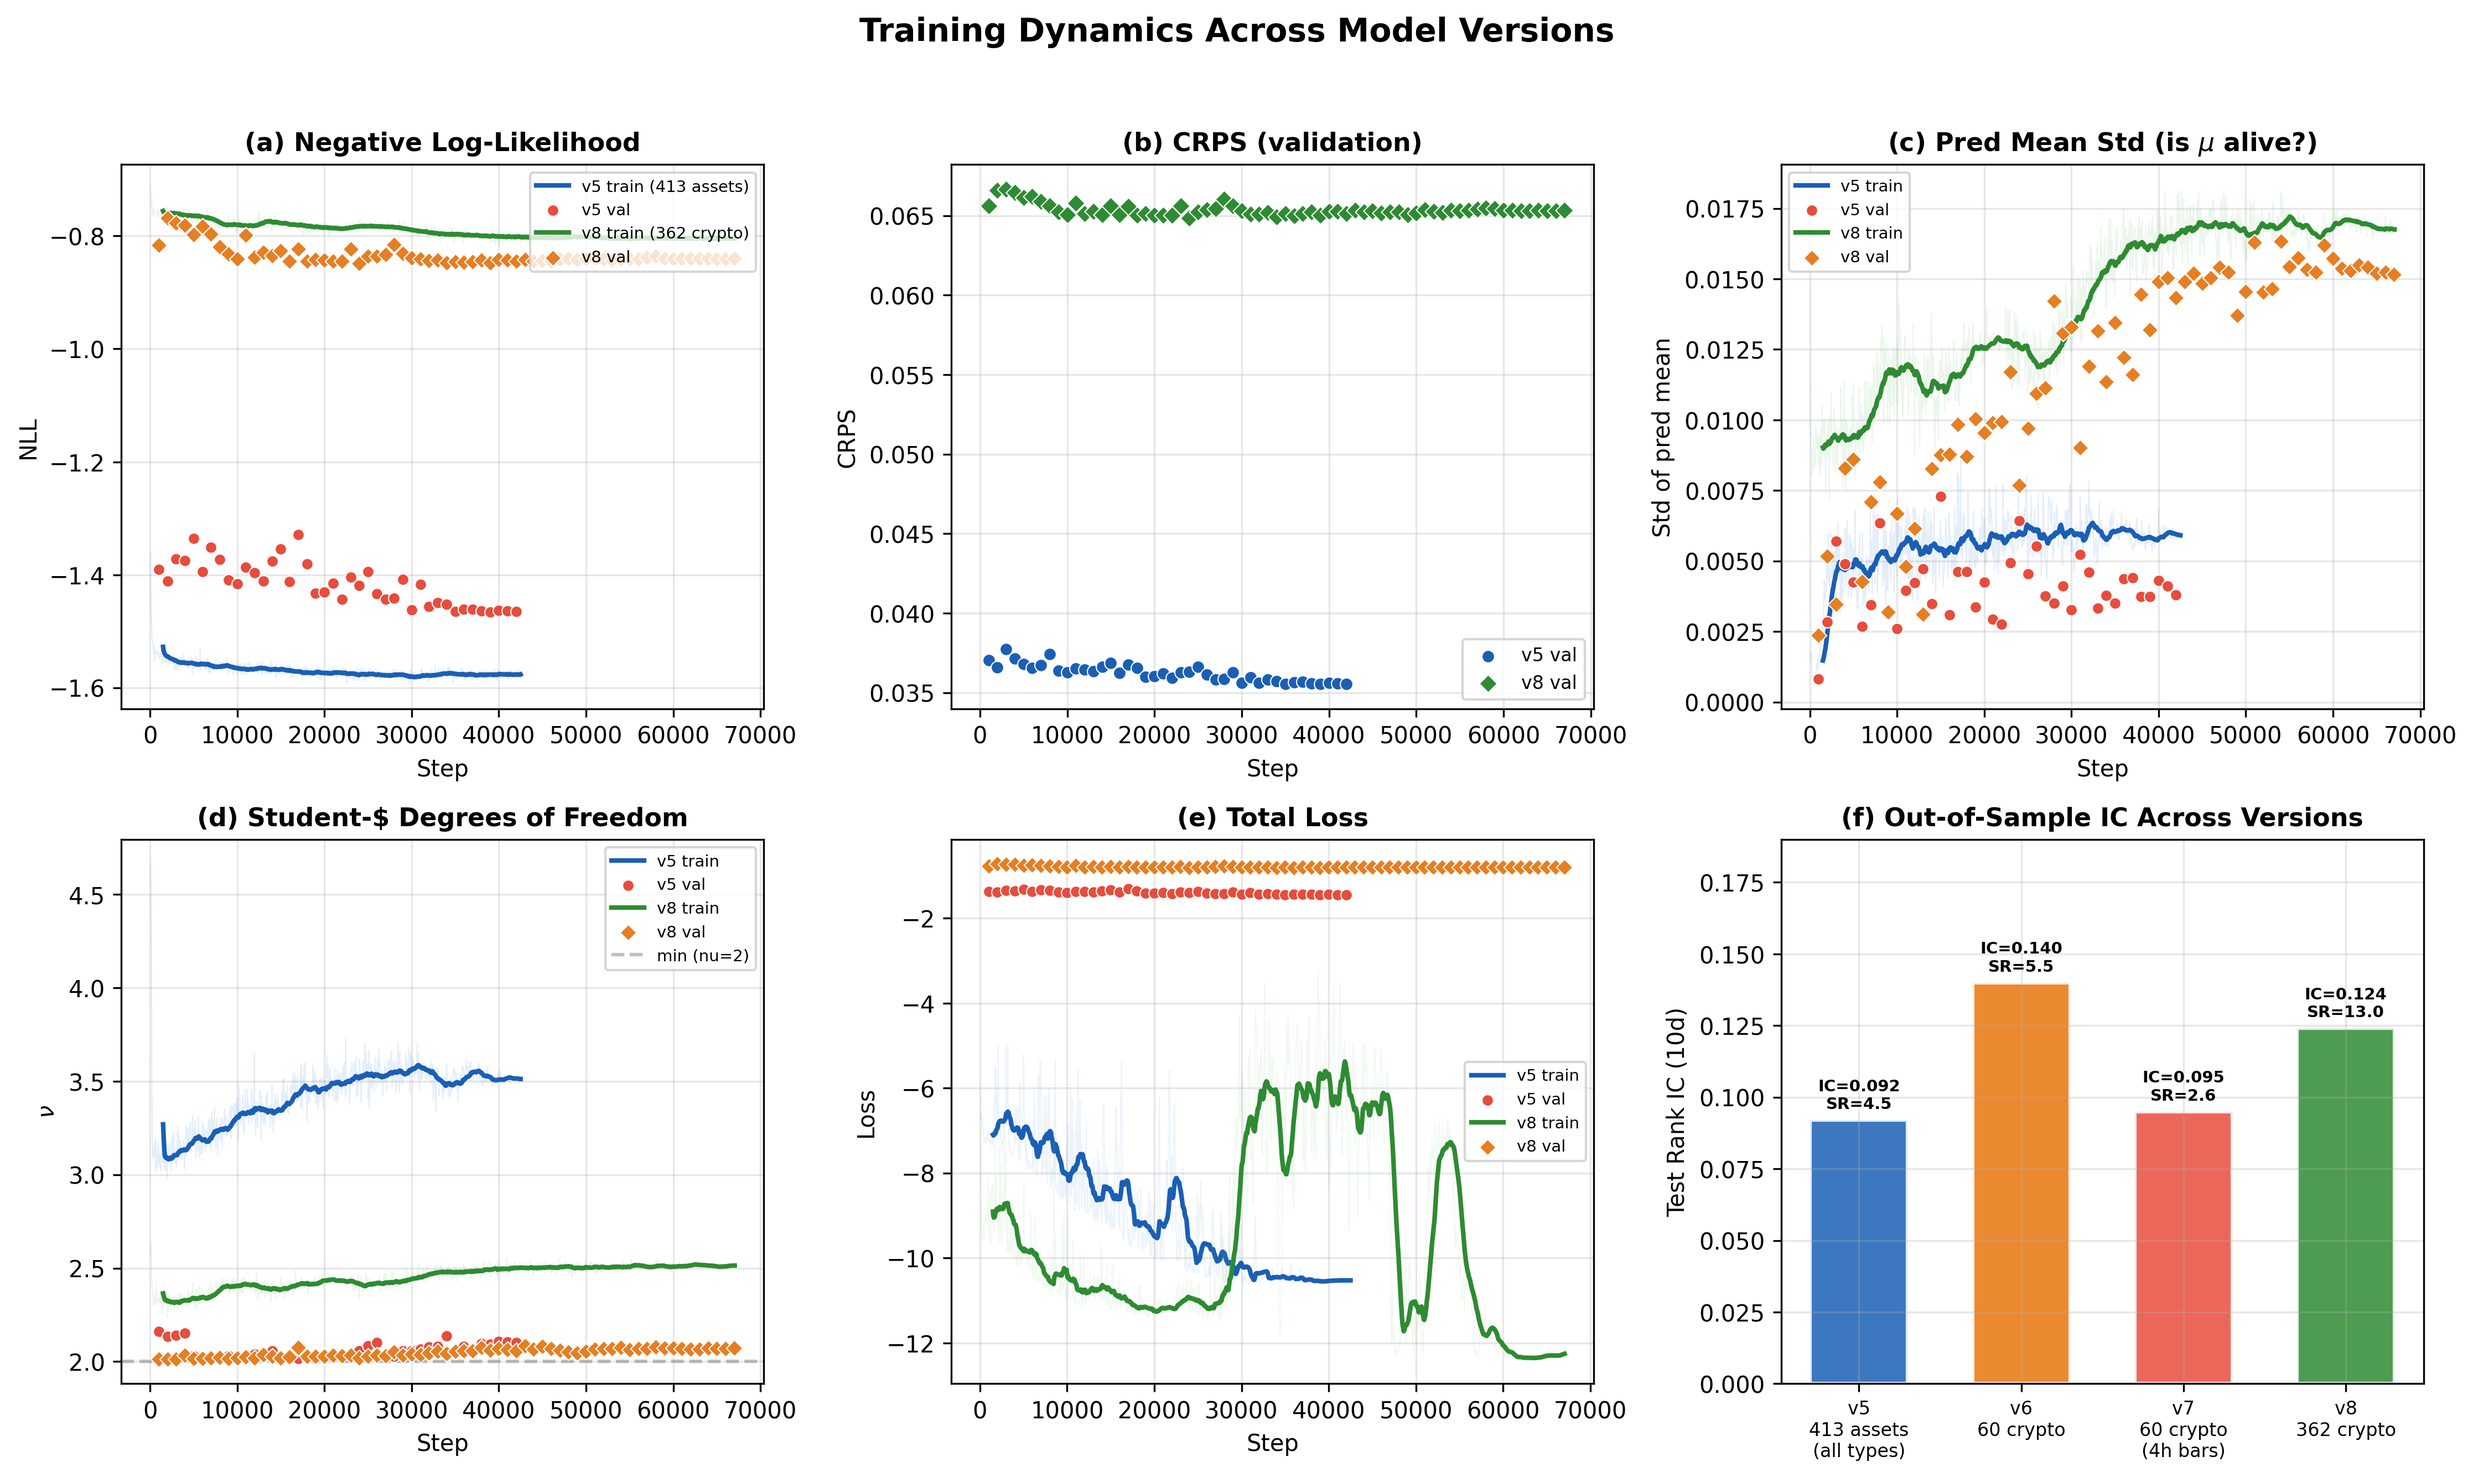
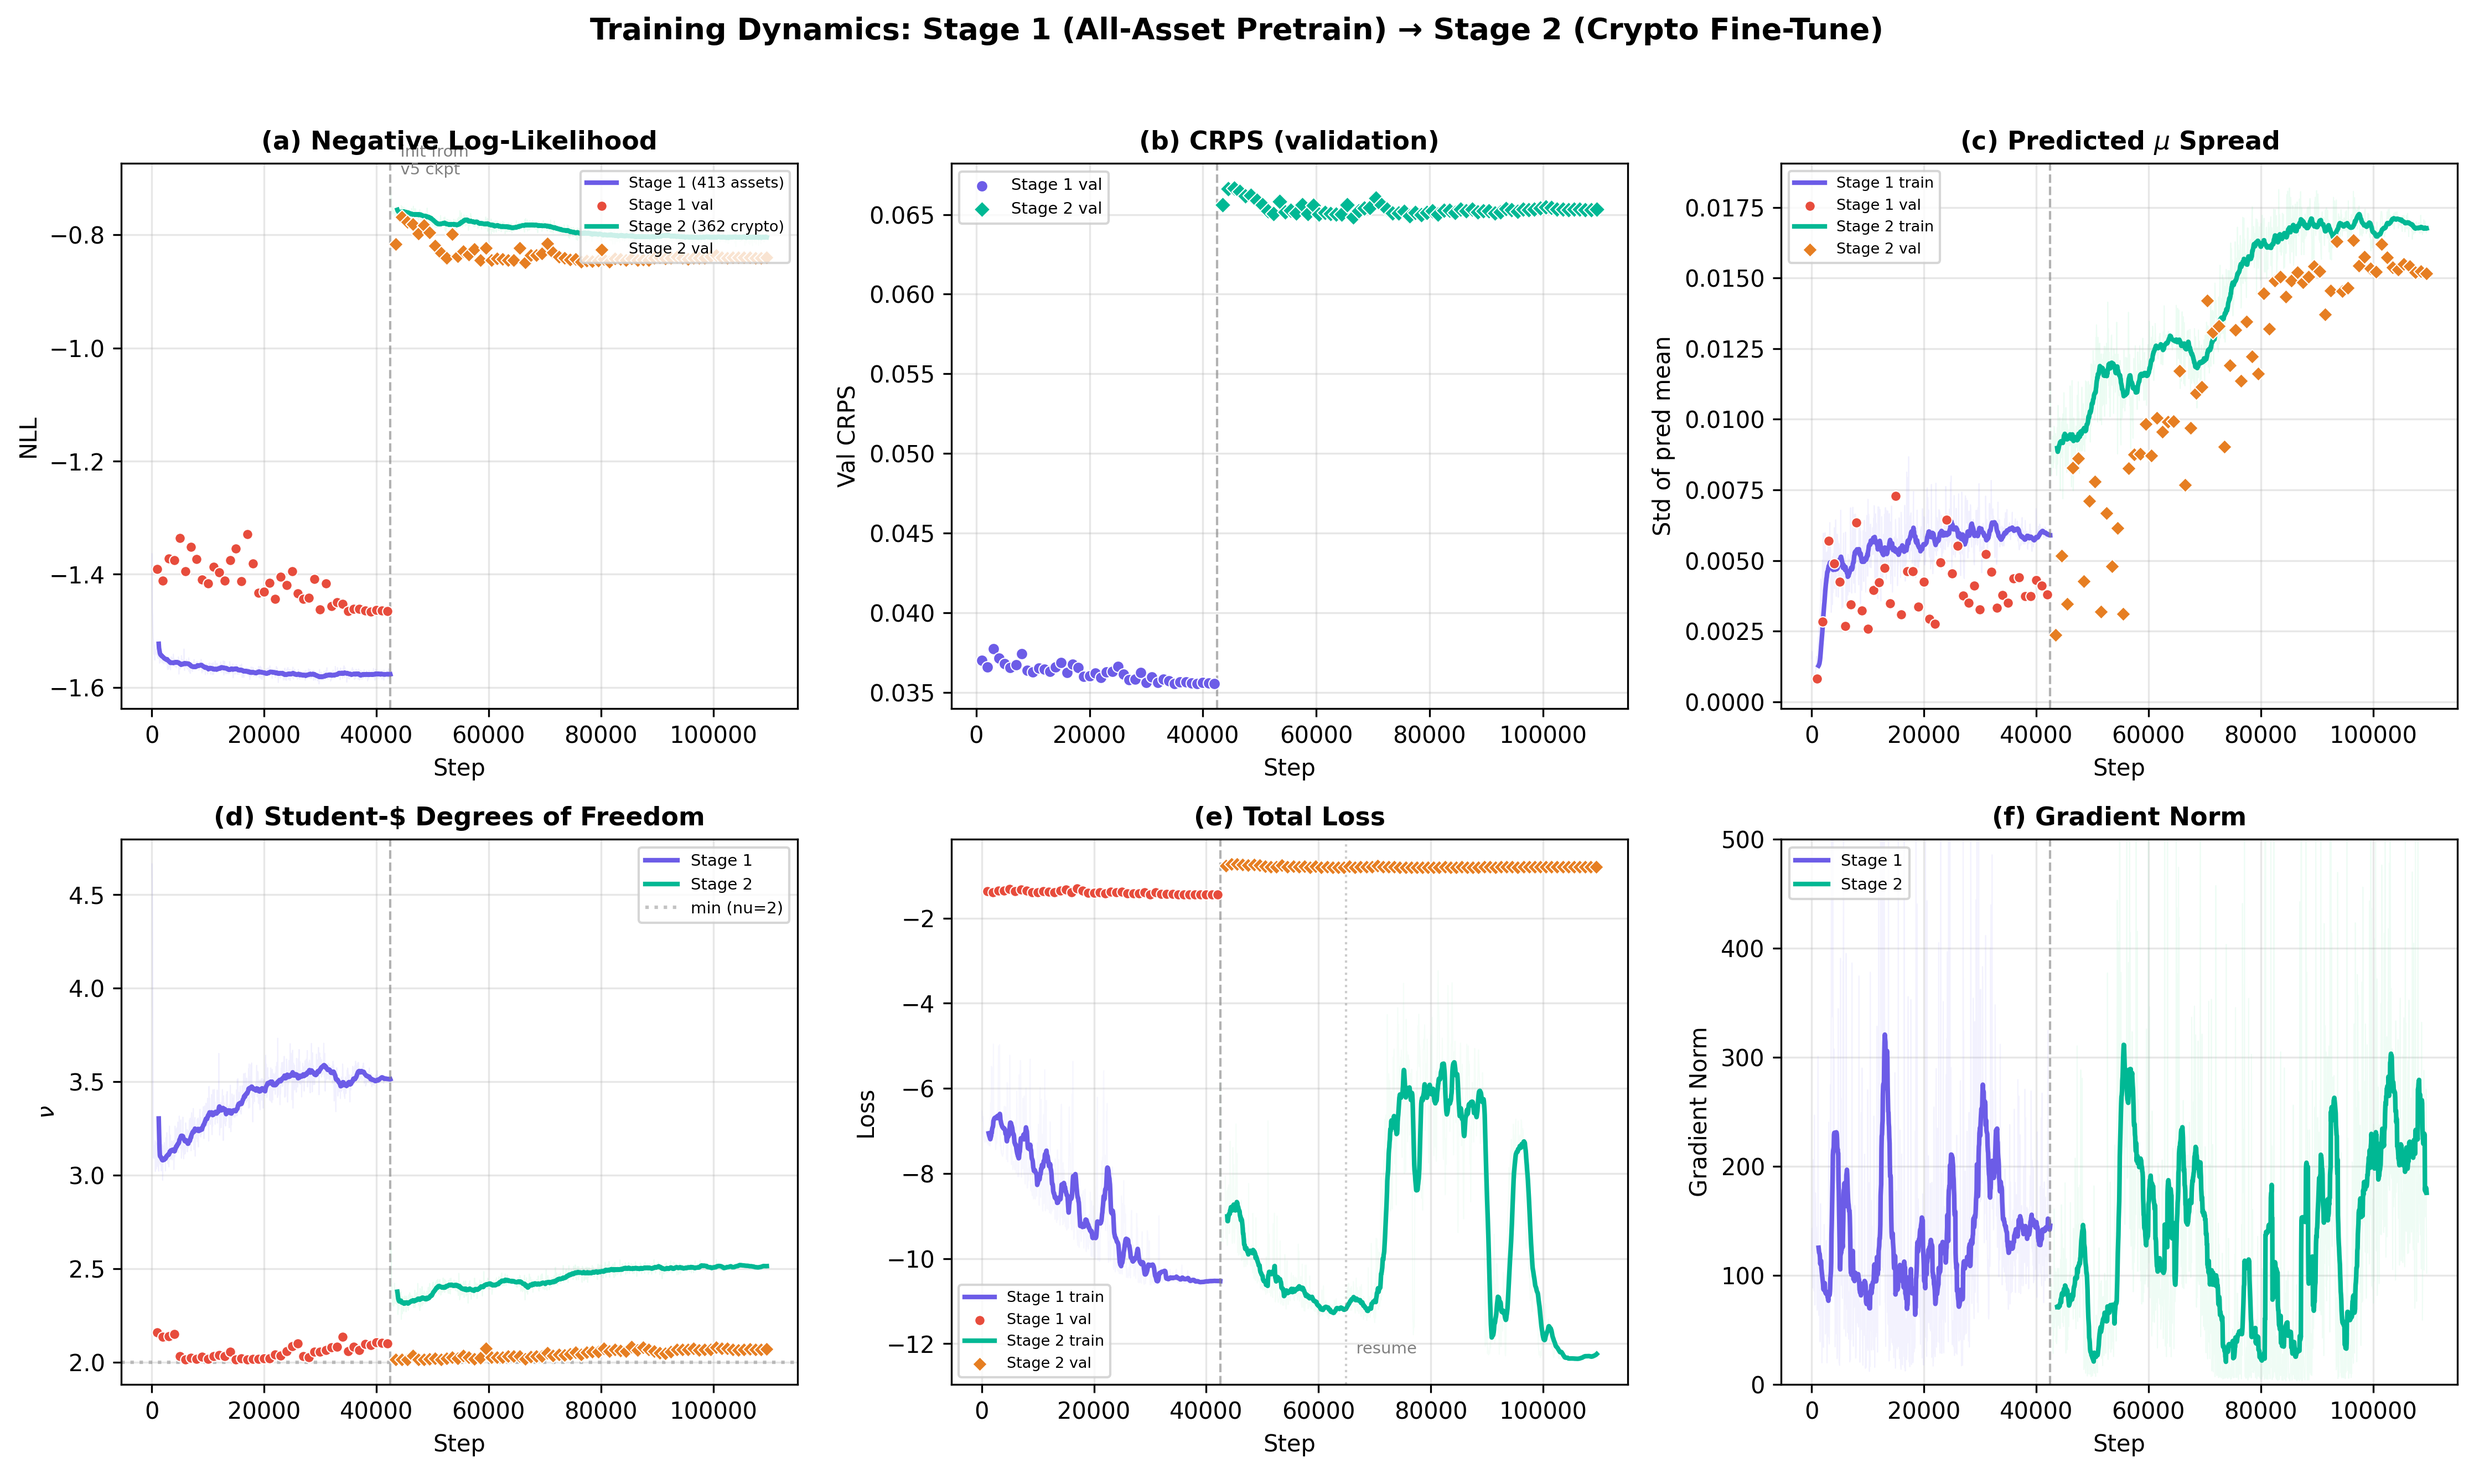
Restyle figures, two-stage training plot, footer emails
- Fig 5: Two-stage training (v5 pretrain → v8 crypto fine-tune)
  with raw+smoothed style, purple/teal colors, stage transition line
- Fig 1: Cleaner bars with value labels, distinct colors
- Contact emails moved to page 1 footer
- Updated caption for training figure

diff --git a/paper/main.tex b/paper/main.tex
@@ -3,7 +3,8 @@
 
 % Remove ACM-specific metadata for draft
 \settopmatter{printacmref=false}
-\renewcommand\footnotetextcopyrightpermission[1]{}
+\renewcommand\footnotetextcopyrightpermission[1]{%
+  \noindent\footnotesize Contact: \texttt{alexandre.dalban@student-cs.fr},\; \texttt{alexandre.dalban@gmail.com}}
 \pagestyle{plain}
 
 \usepackage{booktabs}
@@ -30,8 +31,6 @@
 %\author{Anonymous}
 %\affiliation{\institution{Anonymous Institution}}
 \author{Alexandre Dalban}
-\email{alexandre.dalban@student-cs.fr}
-\email{alexandre.dalban@gmail.com}
 \affiliation{%
   \institution{CentraleSup\'elec, Universit\'e Paris-Saclay}
   \country{France}
@@ -279,7 +278,7 @@ The full architecture is shown in Figure~\ref{fig:arch}.
 To decode distributions at all $H = 30$ horizons in a single forward pass, each horizon $h \in \{1, \ldots, H\}$ is mapped to a query $\mathbf{q}_h^{(0)} = \mathbf{E}_h$ via a learned embedding table.
 The 30 queries attend to the encoder output through $D = 2$ decoder layers, each applying pre-norm cross-attention followed by a feedforward network:
 \begin{align}
-\hat{\mathbf{q}}_h^{(\ell)} &= \mathbf{q}_h^{(\ell-1)} + \text{MultiHead}\!\Big(\underbrace{\text{LN}(\mathbf{q}_h^{(\ell-1)})}_{\text{query}},\; \underbrace{\mathbf{Z}^{(M)}}_{\text{key, value}}\Big) \label{eq:cross-attn} \\
+\hat{\mathbf{q}}_h^{(\ell)} &= \mathbf{q}_h^{(\ell-1)} + \text{MultiHead }\!\Big(\underbrace{\text{LN}(\mathbf{q}_h^{(\ell-1)})}_{\text{query}},\; \underbrace{\mathbf{Z}^{(M)}}_{\text{key, value}}\Big) \label{eq:cross-attn} \\
 \mathbf{q}_h^{(\ell)} &= \hat{\mathbf{q}}_h^{(\ell)} + \text{FFN}\!\left(\text{LN}(\hat{\mathbf{q}}_h^{(\ell)})\right) \nonumber
 \end{align}
 This produces a decoded vector $\mathbf{q}_h^{(D)} \in \mathbb{R}^d$ per horizon, with total complexity $O(H \cdot N \cdot d)$.
@@ -558,7 +557,7 @@ Figure~\ref{fig:training} shows the training dynamics across versions v5, v6, an
 \begin{figure}[h]
 \centering
 \includegraphics[width=\columnwidth]{../plots/fig5_training.png}
-\caption{Training dynamics across model versions. (a--c)~Validation loss, NLL, and CRPS over training steps for v5 (413 assets), v6 (60 crypto), and v8 (362 crypto). (d)~The predicted $\mu$ spread is highest for v8, reflecting stronger conditional signal. (e)~All versions converge to $\nu \approx 2$ (heavy tails). (f)~Out-of-sample IC comparison.}
+\caption{Two-stage training dynamics. Stage~1 (purple): pretraining on 413 multi-asset samples. Stage~2 (teal): fine-tuning on 362 crypto assets (dashed line = init from Stage~1 checkpoint). (a)~NLL improves in both stages. (b)~Val CRPS drops substantially after crypto fine-tuning. (c)~Predicted $\mu$ spread grows in Stage~2, indicating learned conditional signal. (d)~$\nu$ stabilizes near 2 (heavy tails). (e)~Total loss with resume point marked. (f)~Gradient norm increases during adaptation.}
 \label{fig:training}
 \end{figure}
 
